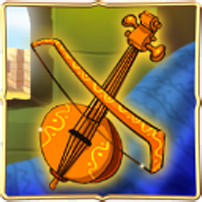
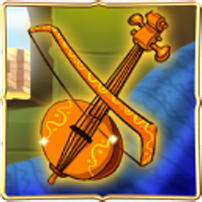
symbol 8 done

diff --git a/src/components/view2Symbols/Symbol8.jsx b/src/components/view2Symbols/Symbol8.jsx
@@ -3,7 +3,7 @@ import { View2SymbolBase, view2SymbolAsset, view2SymbolFrames } from "./View2Sym
 export const symbol8Assets = {
   staticImage: view2SymbolAsset(8, "1.png"),
   background: view2SymbolAsset(8, "background.png"),
-  winFrames: view2SymbolFrames(8, 2),
+  winFrames: view2SymbolFrames(8, 4),
 };
 
 export default function Symbol8(props) {